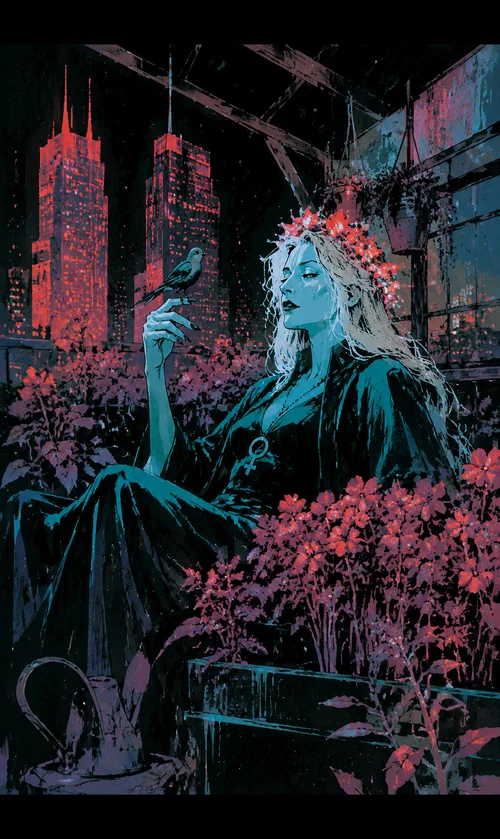
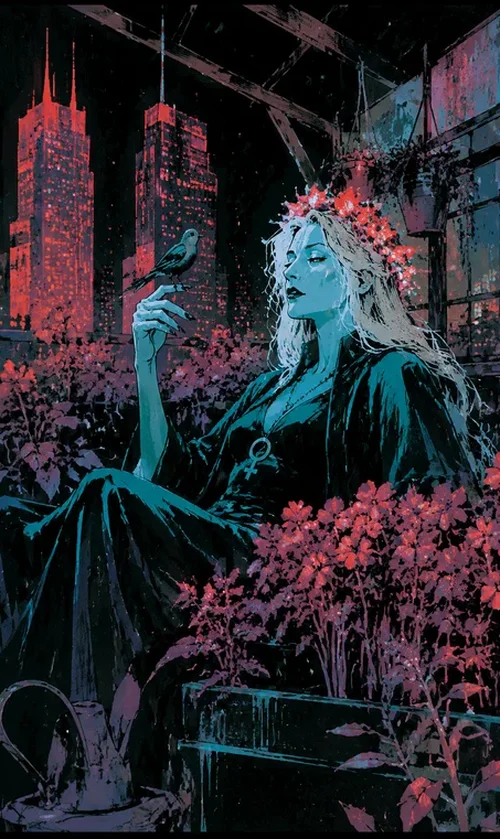
fix: 致敬夜之城皮肤修缮(力量重绘强力量感+全员去黑边统一500x839+牌背500x878+更名)

diff --git a/scripts/gen-mural.py b/scripts/gen-mural.py
@@ -94,6 +94,21 @@ def key():
     return re.search(r"api-key:\s*(\S+)", SECRETS.read_text(encoding="utf-8")).group(1)
 
 
+def fit_crop(im, w, h):
+    """按目标比例居中裁切再缩放（图源 2:3 竖版 -> 裁宽保高，勿裁高产生黑边）。"""
+    src_ratio = im.width / im.height
+    dst_ratio = w / h
+    if src_ratio > dst_ratio:  # 图源更宽：裁宽
+        tw = int(im.height * dst_ratio)
+        x = (im.width - tw) // 2
+        im = im.crop((x, 0, x + tw, im.height))
+    else:                      # 图源更高：裁高
+        th = int(im.width / dst_ratio)
+        y = (im.height - th) // 2
+        im = im.crop((0, y, im.width, y + th))
+    return im.resize((w, h), Image.LANCZOS)
+
+
 def edits_gen(ref_png, prompt, out_webp, k):
     proc = subprocess.run(
         ["curl", "-s", "--noproxy", "*", "-m", "300", "-X", "POST", API,
@@ -106,11 +121,8 @@ def edits_gen(ref_png, prompt, out_webp, k):
     if not b64:
         raise RuntimeError(f"生图失败: {str(d)[:200]}")
     im = Image.open(io.BytesIO(base64.b64decode(b64))).convert("RGB")
-    # 1024x1536 -> 500x839 居中裁切
-    th = int(im.width * CARD_H / CARD_W)
-    y = (im.height - th) // 2
-    im.crop((0, y, im.width, y + th)).resize((CARD_W, CARD_H), Image.LANCZOS).save(
-        out_webp, "WEBP", quality=85)
+    im = fit_crop(im, CARD_W, CARD_H)
+    im.save(out_webp, "WEBP", quality=85)
 
 
 def sim(f1, f2):
@@ -274,7 +286,7 @@ def register():
         for n in range(1, 15):
             cards[f"{suit}-{n:02d}"] = f"{suit}-{n:02d}.webp"
     manifest = {
-        "id": "night-mural", "name": "夜城壁画",
+        "id": "night-mural", "name": "致敬夜之城",
         "author": "AI 二次创作（gpt-image-2，CP2077 塔罗壁画画风致敬）+ PIL 构图",
         "back": "back.webp", "cards": cards,
     }
@@ -307,8 +319,9 @@ def main():
     # 愚者：复用已确认的 D1 样稿
     fool = DECK / "major-00.webp"
     if not fool.exists():
-        Image.open(ROOT / "public/style-samples/draft-rework1.webp").save(fool, "WEBP", quality=85)
-        print("[major-00] 复用 D1 样稿")
+        fit_crop(Image.open(ROOT / "public/style-samples/draft-rework1.webp").convert("RGB"),
+                 CARD_W, CARD_H).save(fool, "WEBP", quality=85)
+        print("[major-00] 复用 C1 样稿并规整为 500x839")
     order = sorted(SUBJECTS.items())
     for app_id, (mode, subject) in order:
         game_no = int(app_id.split("-")[1]) + 1
